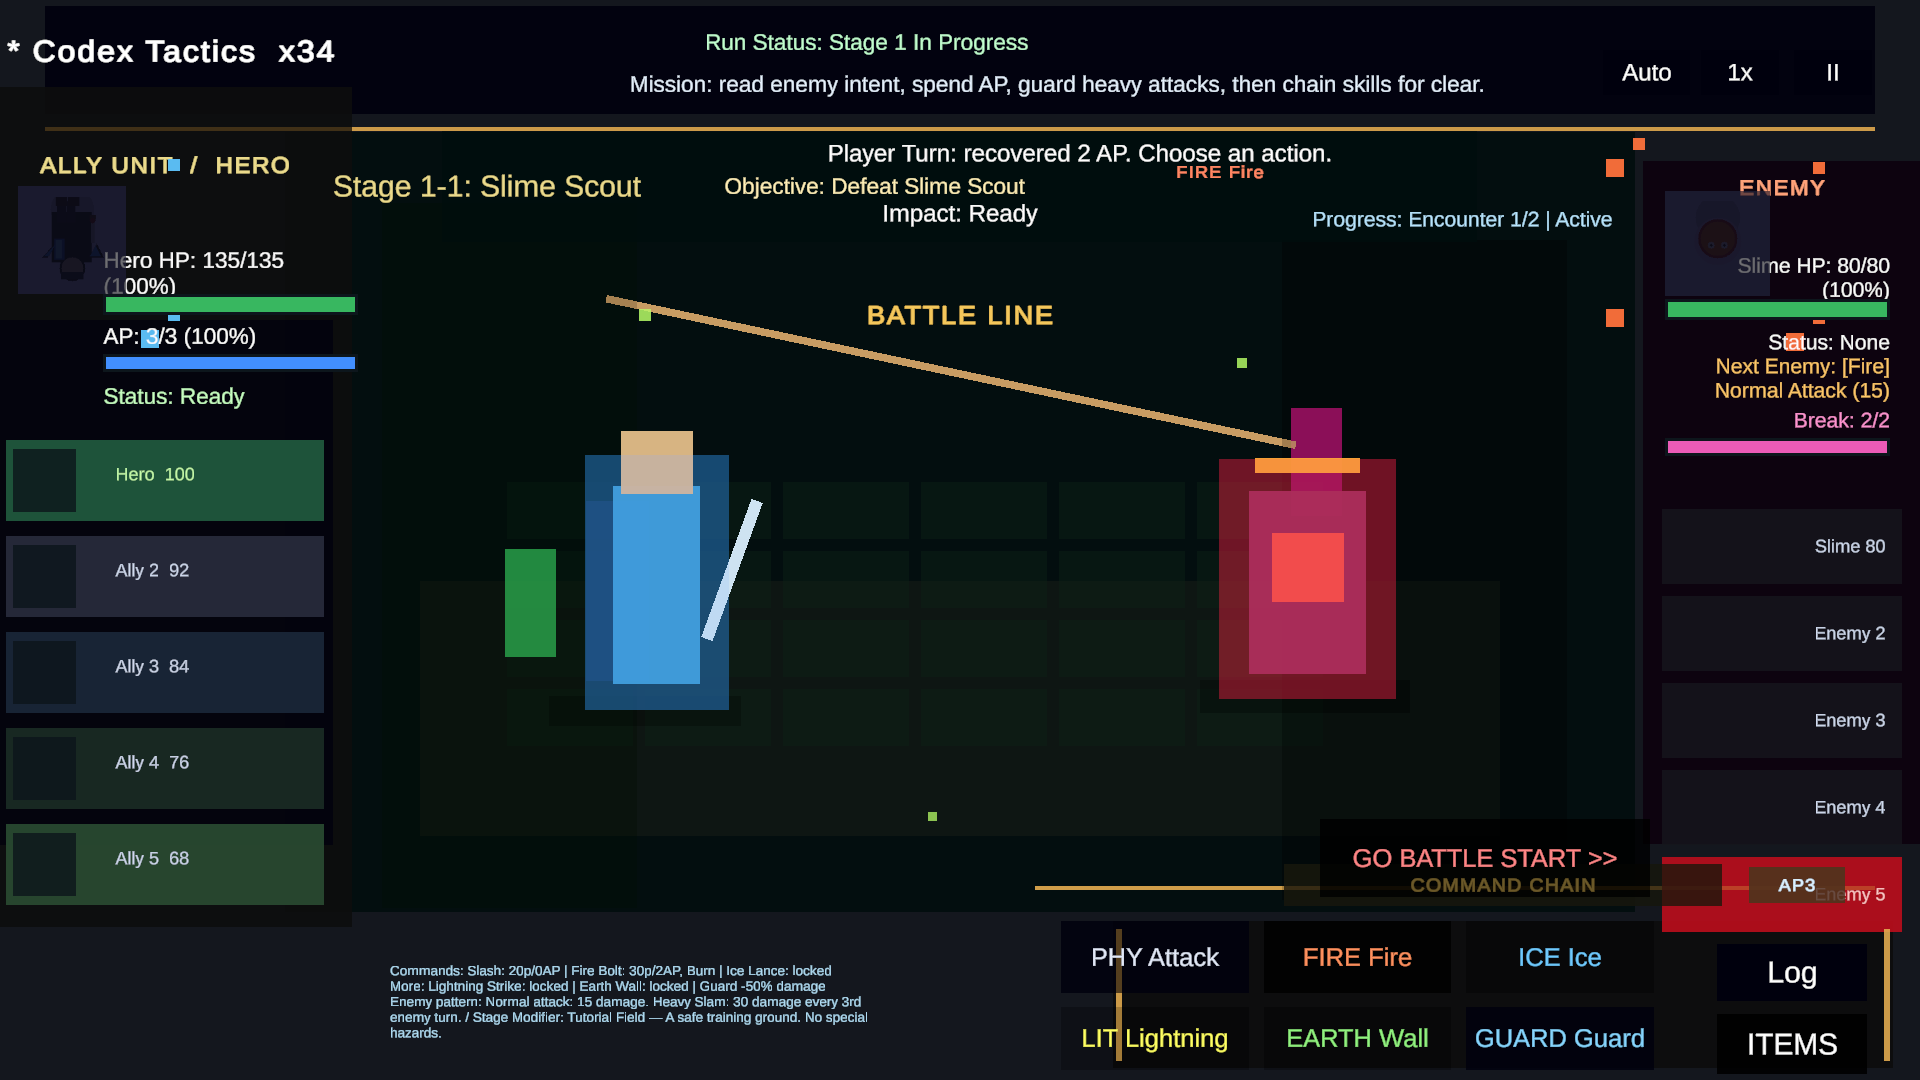
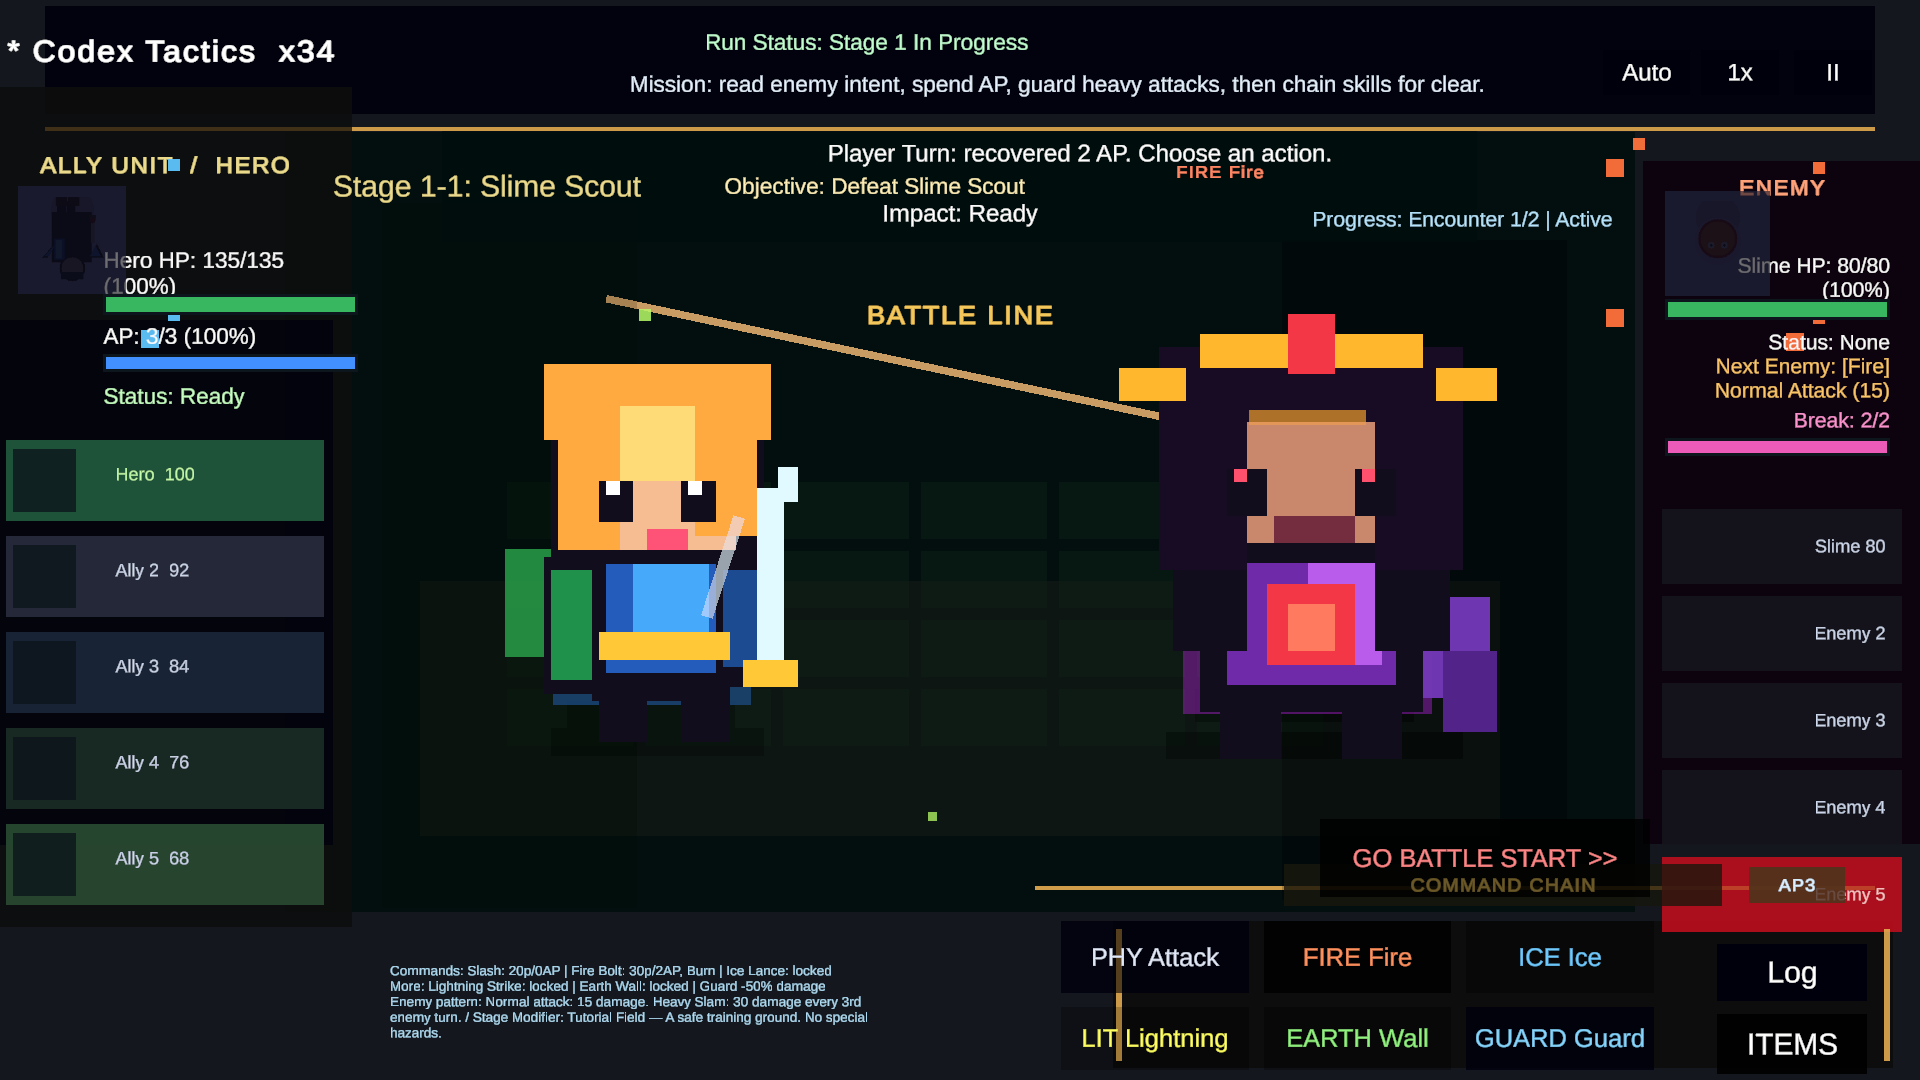
Batch 77: Fix portfolio capture runner

Changed region(s): [[0.5625, 0.275, 0.7812, 0.7028], [0.2812, 0.3361, 0.4375, 0.6722]]

diff --git a/GamePortfolio/Assets/Scripts/ScreenshotCaptureJob.cs b/GamePortfolio/Assets/Scripts/ScreenshotCaptureJob.cs
@@ -11,29 +11,20 @@ public class ScreenshotCaptureJob : MonoBehaviour
     [RuntimeInitializeOnLoadMethod(RuntimeInitializeLoadType.AfterSceneLoad)]
     private static void Initialize()
     {
-        // Run in both Editor batchmode AND standalone player with -capture flag
-        bool shouldCapture = Application.isBatchMode;
-        if (!shouldCapture)
-        {
-            // Check command-line args for standalone player
-            var args = System.Environment.GetCommandLineArgs();
-            for (int i = 0; i < args.Length; i++)
-            {
-                if (args[i] == "-capture" || args[i] == "--capture")
-                {
-                    shouldCapture = true;
-                    break;
-                }
-            }
-        }
+        // Run in Editor batchmode OR in a standalone player only when the capture flag is present.
+        // Standalone captures should write back to the project Docs/Captures folder, not the
+        // built player's *_Data folder, so automated README images never point at stale/hidden files.
+        bool hasCaptureFlag = HasArg("-capture") || HasArg("--capture");
+        bool shouldCapture = Application.isBatchMode || hasCaptureFlag;
 
         if (!shouldCapture)
             return;
 
         Debug.Log("[Capture] Initializing screenshot capture job...");
 
-        _capturesDir = Path.Combine(Application.dataPath.Replace("/Assets", ""), "Docs/Captures");
+        _capturesDir = ResolveCapturesDirectory();
         Directory.CreateDirectory(_capturesDir);
+        Debug.Log($"[Capture] Output directory: {_capturesDir}");
 
         var go = new GameObject("ScreenshotCaptureJob");
         DontDestroyOnLoad(go);
@@ -45,8 +36,62 @@ public class ScreenshotCaptureJob : MonoBehaviour
         StartCoroutine(CaptureSequence());
     }
 
-    private void Capture(string filename)
+    private static bool HasArg(string name)
     {
+        var args = System.Environment.GetCommandLineArgs();
+        for (int i = 0; i < args.Length; i++)
+        {
+            if (args[i] == name)
+                return true;
+        }
+
+        return false;
+    }
+
+    private static string GetArgValue(string name)
+    {
+        var args = System.Environment.GetCommandLineArgs();
+        for (int i = 0; i < args.Length - 1; i++)
+        {
+            if (args[i] == name)
+                return args[i + 1];
+        }
+
+        return string.Empty;
+    }
+
+    private static string ResolveCapturesDirectory()
+    {
+        string explicitDir = GetArgValue("-captureOutputDir");
+        if (!string.IsNullOrWhiteSpace(explicitDir))
+            return explicitDir;
+
+        explicitDir = System.Environment.GetEnvironmentVariable("CODEX_TACTICS_CAPTURE_DIR");
+        if (!string.IsNullOrWhiteSpace(explicitDir))
+            return explicitDir;
+
+        string projectDir = Application.dataPath.Replace("/Assets", "");
+        if (!projectDir.EndsWith("_Data"))
+            return Path.Combine(projectDir, "Docs/Captures");
+
+        // Fallback for manually launched standalone builds without -captureOutputDir:
+        // .../GamePortfolio/Builds/CaptureBuild/CaptureRunner_Data -> .../GamePortfolio/Docs/Captures
+        DirectoryInfo dir = Directory.GetParent(projectDir);
+        for (int i = 0; i < 2 && dir != null; i++)
+            dir = dir.Parent;
+
+        if (dir != null)
+            return Path.Combine(dir.FullName, "Docs/Captures");
+
+        return Path.Combine(projectDir, "Docs/Captures");
+    }
+
+    private IEnumerator Capture(string filename)
+    {
+        // ReadPixels must happen after rendering for the frame has completed. Capturing from a
+        // normal coroutine tick can produce black frames or "not inside drawing frame" warnings.
+        yield return new WaitForEndOfFrame();
+
         string path = Path.Combine(_capturesDir, filename);
         int w = Screen.width > 0 ? Screen.width : 1920;
         int h = Screen.height > 0 ? Screen.height : 1080;
@@ -64,18 +109,18 @@ public class ScreenshotCaptureJob : MonoBehaviour
     {
         yield return new WaitForSeconds(1.5f);
 
-        Capture("00_title_scene.png");
+        yield return Capture("00_title_scene.png");
         yield return new WaitForSeconds(0.5f);
 
         SceneManager.LoadScene(GameSceneFlow.StageSelectSceneName);
         yield return new WaitForSeconds(1.5f);
-        Capture("00_stage_select_scene.png");
+        yield return Capture("00_stage_select_scene.png");
         yield return new WaitForSeconds(0.5f);
 
         SceneManager.LoadScene(GameSceneFlow.BattleSceneName);
         yield return new WaitForSeconds(2.0f);
 
-        var manager = FindFirstObjectByType<BattleManager>();
+        var manager = FindAnyObjectByType<BattleManager>();
         if (manager == null)
         {
             Debug.LogError("[Capture] BattleManager not found!");
@@ -84,17 +129,17 @@ public class ScreenshotCaptureJob : MonoBehaviour
 
         Debug.Log("[Capture] BattleManager found. Starting capture.");
 
-        Capture("01_battle_start.png");
+        yield return Capture("01_battle_start.png");
         yield return new WaitForSeconds(1.0f);
 
         manager.OnClickFireSkillButton();
         yield return new WaitForSeconds(4.0f);
-        Capture("02_fire_skill_burn.png");
+        yield return Capture("02_fire_skill_burn.png");
         yield return new WaitForSeconds(0.5f);
 
         manager.OnClickGuardButton();
         yield return new WaitForSeconds(3.0f);
-        Capture("03_guard_status.png");
+        yield return Capture("03_guard_status.png");
         yield return new WaitForSeconds(0.5f);
 
         for (int i = 0; i < 6; i++)
@@ -115,14 +160,14 @@ public class ScreenshotCaptureJob : MonoBehaviour
         }
 
         yield return new WaitForSeconds(2.0f);
-        Capture("04_result_summary_rank.png");
+        yield return Capture("04_result_summary_rank.png");
         yield return new WaitForSeconds(0.5f);
 
         if (manager != null)
         {
             manager.OnClickRetryButton();
             yield return new WaitForSeconds(2.0f);
-            Capture("05_retry_reset.png");
+            yield return Capture("05_retry_reset.png");
         }
 
         Debug.Log("[Capture] All screenshots captured! Exiting.");

diff --git a/GamePortfolio/Assets/Editor/CaptureScreenshots.cs b/GamePortfolio/Assets/Editor/CaptureScreenshots.cs
@@ -48,11 +48,15 @@ public static class CaptureScreenshots
 
         Debug.Log($"[Capture] Build succeeded: {buildPath}");
 
-        // Build succeeded — the build will be run externally (not from batchmode)
-        // Write the path so external script can find it
+        // Write helper files so external scripts can run the player with the correct output folder.
         string pathFile = Path.Combine(projectPath, "Builds", "_build_path.txt");
         File.WriteAllText(pathFile, buildPath);
         Debug.Log($"[Capture] Build path written to {pathFile}");
+
+        string argsFile = Path.Combine(projectPath, "Builds", "_capture_args.txt");
+        File.WriteAllText(argsFile,
+            $"-screen-width 1920 -screen-height 1080 -capture -captureOutputDir \"{capturesPath}\"");
+        Debug.Log($"[Capture] Capture args written to {argsFile}");
 
         // Save the build info
         EditorApplication.Exit(0);

diff --git a/GamePortfolio/Docs/Devlog/2026-05-28_capture-runner-readability-pass.md b/GamePortfolio/Docs/Devlog/2026-05-28_capture-runner-readability-pass.md
@@ -1,0 +1,41 @@
+# 2026-05-28 — Batch 77 Capture Runner Readability Pass
+
+## 목표
+
+Batch 76에서 치비 픽셀 스탠디는 적용됐지만, standalone capture가 `Builds/CaptureBuild/CaptureRunner_Data/Docs/Captures` 아래에 검은 화면으로 남는 문제가 있었다. README/포트폴리오에 바로 쓸 수 있도록 자동 캡처 루프를 안정화했다.
+
+## 원인
+
+- standalone player에서 `Application.dataPath`를 기준으로 저장하면 프로젝트 `Docs/Captures`가 아니라 빌드 산출물의 `CaptureRunner_Data/Docs/Captures`로 저장됐다.
+- `ReadPixels`가 일반 coroutine tick에서 호출되어 `not inside drawing frame` 경고가 발생할 수 있었다.
+
+## 변경
+
+- `ScreenshotCaptureJob`에 `-captureOutputDir` 인자와 `CODEX_TACTICS_CAPTURE_DIR` 환경변수 지원 추가.
+- 기본 fallback도 standalone `_Data` 폴더가 아니라 프로젝트 `Docs/Captures`로 되돌아가도록 보정.
+- 모든 캡처를 `WaitForEndOfFrame` 이후 `ReadPixels` 하도록 변경.
+- `CaptureScreenshots.Run`이 `_capture_args.txt`를 생성해 외부 실행 시 올바른 출력 폴더를 알 수 있게 했다.
+- `Docs/Captures/capture_contact_sheet.png`를 최신 치비 픽셀 전투 화면 기준으로 재생성했다.
+
+## 검증
+
+```text
+CaptureScreenshots.Run build: PASS
+CaptureRunner.exe -capture -captureOutputDir Docs/Captures: PASS
+PNG non-black/stat check: PASS
+Contact sheet visual QA: PASS
+BattleSceneAutoBuilder.ValidateBattleTestScene: RESULT: PASS
+BattleAutoTestRunner.RunBattleLogicAutoTest: RESULT: PASS
+GameFlowSceneAutoBuilder.ValidateGameFlowScenes: RESULT: PASS
+```
+
+## 포트폴리오 메모
+
+- 최신 README contact sheet에서 Title, Stage Select, Battle Start, Fire/Burn, Guard, Result, Retry 흐름이 모두 보인다.
+- 치비 픽셀 Hero/Enemy가 전투 화면 중앙에 안정적으로 찍히므로 다음 README/GIF 작업의 기준 이미지로 사용할 수 있다.
+
+## 다음 후보
+
+1. 파티원/적군 구분을 위한 치비 픽셀 베리에이션 2~3종 추가.
+2. Fire/Ice/Lightning/Guard 타격 연출과 화면 흔들림을 GIF용으로 더 크게 강화.
+3. README용 8~15초 GIF 생성.

diff --git a/GamePortfolio/README.md b/GamePortfolio/README.md
@@ -1,6 +1,6 @@
 # GamePortfolio — Codex Tactics
 
-Unity 2D 턴제 RPG 포트폴리오용 전투 수직 슬라이스입니다. 현재 Batch 55 기준으로 타이틀 화면, 스테이지 선택, 6개 스테이지/12개 encounter, 전투, 결과, 저장/진행도, 전장 기믹, UI/VFX/SFX, 자동 검증까지 포함합니다.
+Unity 2D 턴제 RPG 포트폴리오용 전투 수직 슬라이스입니다. 현재 Batch 77 기준으로 타이틀 화면, 스테이지 선택, 6개 스테이지/12개 encounter, 치비 픽셀 전투 스탠디, 전투, 결과, 저장/진행도, 전장 기믹, UI/VFX/SFX, 자동 검증/캡처까지 포함합니다.
 
 **최신 포트폴리오 정리:** [`Docs/Portfolio_CodexTactics_Review_and_Showcase_2026-05-18.txt`](Docs/Portfolio_CodexTactics_Review_and_Showcase_2026-05-18.txt)
 
@@ -55,6 +55,7 @@ Title Scene → Stage Select Scene → Battle Scene → Result / Continue / Retr
 - Title screen star particles, fade-in, title float, button glow
 - Stage Select auto-select, card pulse animation, modifier preview
 - Battle HUD: HP/AP bars, status, enemy intent, Break gauge, stage progress, recent actions
+- Original chibi pixel standees with forced Sprite import + point filtering for screenshot readability
 - Element badge, impact text color coding, guard/status overlays
 - Elemental projectile VFX, hit sparks, screen shake, damage/heal/buff popups
 - AudioManager singleton with procedural fallback BGM/SFX
@@ -97,13 +98,14 @@ Unity Editor 메뉴:
 - `Tools > Codex Tactics > Create Game Flow Scenes`
 - `Tools > Codex Tactics > Validate Game Flow Scenes`
 
-2026-05-18 검증 결과:
+2026-05-28 / Batch 77 검증 결과:
 
 ```text
-git diff --check 9da4ab5..HEAD: PASS
+git diff --check: PASS
 BattleAutoTestRunner.RunBattleLogicAutoTest: PASS
 GameFlowSceneAutoBuilder.ValidateGameFlowScenes: PASS
 BattleSceneAutoBuilder.ValidateBattleTestScene: PASS
+Standalone CaptureRunner + contact sheet visual QA: PASS
 ```
 
 Unity batchmode에서 `This should not be called in batch mode.` 경고가 출력될 수 있지만, 현재 테스트는 exit code 0 및 `RESULT: PASS`로 정상 완료됩니다.

diff --git a/GamePortfolio/Docs/09_Next_Autonomous_Tasks.md b/GamePortfolio/Docs/09_Next_Autonomous_Tasks.md
@@ -1,6 +1,29 @@
 # Next Autonomous Tasks
 
-## Latest autonomous run — 2026-05-28 Batch 75: Battle Commercial Presentation Pass
+## Latest autonomous run — 2026-05-28 Batch 77: Capture Runner Readability Pass
+
+Completed:
+- Fixed the standalone capture runner so portfolio screenshots are written back to `Docs/Captures/` instead of hidden build-data folders.
+- Added `-captureOutputDir` / `CODEX_TACTICS_CAPTURE_DIR` support to `ScreenshotCaptureJob`.
+- Moved `ReadPixels` behind `WaitForEndOfFrame` to avoid black-frame capture timing warnings.
+- Rebuilt and reran `CaptureRunner.exe` with graphics enabled, then regenerated `Docs/Captures/capture_contact_sheet.png`.
+- Updated README capture/verification notes and added `Docs/Devlog/2026-05-28_capture-runner-readability-pass.md`.
+
+Verification completed:
+- `CaptureScreenshots.Run`: PASS.
+- `CaptureRunner.exe -capture -captureOutputDir Docs/Captures`: PASS.
+- PNG non-black/stat check: PASS for all 7 screenshots.
+- Contact sheet visual QA: PASS; Title, Stage Select, battle start, Fire/Burn, Guard, Result, Retry are visible.
+- `ValidateBattleTestScene`: PASS / `RESULT: PASS`.
+- `BattleAutoTestRunner.RunBattleLogicAutoTest`: PASS / `RESULT: PASS`.
+- `ValidateGameFlowScenes`: PASS / `RESULT: PASS`.
+
+Recommended next tasks:
+1. Batch 78: add 2-3 additional chibi pixel party/enemy variants and expose them in roster/encounter presentation.
+2. Batch 79: strengthen Fire/Ice/Lightning/Guard hit feedback and screen shake for an 8-15 second GIF.
+3. Batch 80: generate README-ready gameplay GIF from the now-working capture pipeline.
+
+## Previous autonomous run — 2026-05-28 Batch 75: Battle Commercial Presentation Pass
 
 Completed:
 - Reframed the project target as a short, high-quality commercial-looking portfolio demo rather than a long game.

diff --git a/GamePortfolio/Docs/PortfolioShowcaseDraft.md b/GamePortfolio/Docs/PortfolioShowcaseDraft.md
@@ -1,6 +1,6 @@
 # Codex Tactics — Portfolio Showcase Draft
 
-> Updated: 2026-05-28 — current target: short, high-quality commercial-looking portfolio demo. Covers Batch 76 scope: chibi pixel-art inspired battle standees, premium battle presentation pass, generated scene validation, portfolio captures, 6 stages, 12 encounters, stage modifiers, battle UI/VFX/SFX polish, items, result/progress systems, and automated validation.
+> Updated: 2026-05-28 — current target: short, high-quality commercial-looking portfolio demo. Covers Batch 77 scope: working standalone capture pipeline, chibi pixel-art inspired battle standees, premium battle presentation pass, generated scene validation, portfolio captures, 6 stages, 12 encounters, stage modifiers, battle UI/VFX/SFX polish, items, result/progress systems, and automated validation.
 
 ## 1. Game overview
 
@@ -151,7 +151,7 @@ Instead of relying only on manual Play Mode checks, the project includes Editor 
 
 ## 7. Validation status on 2026-05-28
 
-Reviewed after Batch 76 chibi pixel standee work.
+Reviewed after Batch 77 capture runner readability pass.
 
 Passed checks:
 
@@ -160,6 +160,7 @@ git diff --check: PASS
 BattleAutoTestRunner.RunBattleLogicAutoTest: PASS
 GameFlowSceneAutoBuilder.ValidateGameFlowScenes: PASS
 BattleSceneAutoBuilder.ValidateBattleTestScene: PASS
+Standalone CaptureRunner + contact sheet visual QA: PASS
 ```
 
 Note: Unity batchmode still prints a benign `This should not be called in batch mode.` warning from editor dialog usage, but the validation methods return exit code 0 and `RESULT: PASS`.

diff --git a/GamePortfolio/Docs/Captures/README.md b/GamePortfolio/Docs/Captures/README.md
@@ -1,6 +1,6 @@
 # Captures
 
-Unity screenshots and contact sheet for the portfolio README.
+Unity screenshots and contact sheet for the portfolio README. Batch 77 captures are generated by the standalone `CaptureRunner.exe` and written directly to this folder via `-captureOutputDir`, then checked for non-black frames and contact-sheet readability.
 
 ## Current captured files
 
